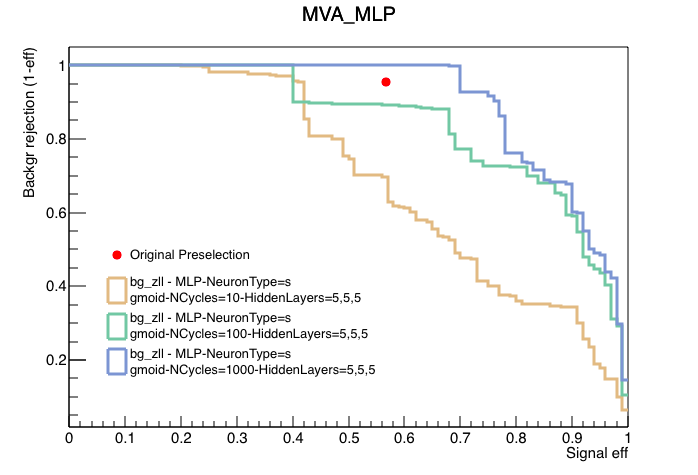
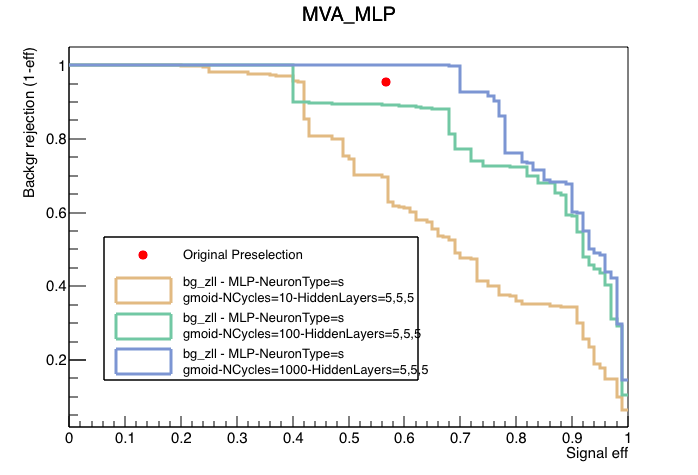
styling legend in roc

Changed region(s): [[0.1504, 0.5305, 0.6318, 0.8253], [0.1504, 0.4716, 0.6017, 0.5011]]

diff --git a/src/roc_curves.cpp b/src/roc_curves.cpp
@@ -22,7 +22,7 @@ void RocCurves::plot_all_rejBvsS(std::vector<TFile*> training_outputs, std::stri
 {
 	 std::string plot_name = bg_name + " ROC Curves";
 	 TCanvas* c1     = new TCanvas("c1", plot_name.c_str());
-	 TLegend* legend = new TLegend(0.15, 0.5, 0.3, 0.2);
+	 TLegend* legend = new TLegend(0.15, 0.5, 0.65, 0.2);
 	 TGraph* point   = parked_data_point(signal, bg, preselection, var, variables, legend);
 
 	 for (int i = 0; i < 3; i++)
@@ -88,6 +88,7 @@ void RocCurves::style_legend(TLegend* legend)
 	 legend->SetTextSize(0.03);
 	 legend->SetBorderSize(0);
 	 legend->SetFillStyle(0);
+	 legend->SetBorderSize(1);
 }
 
 
